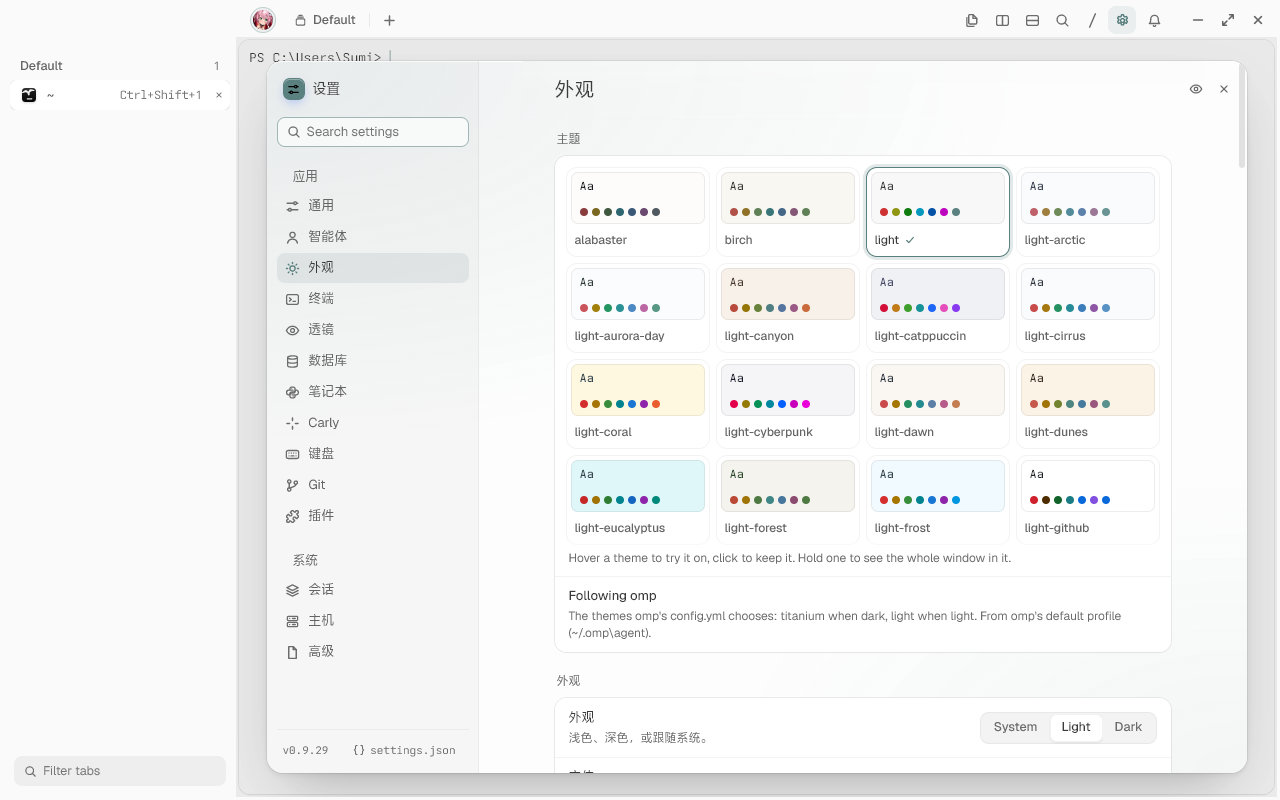
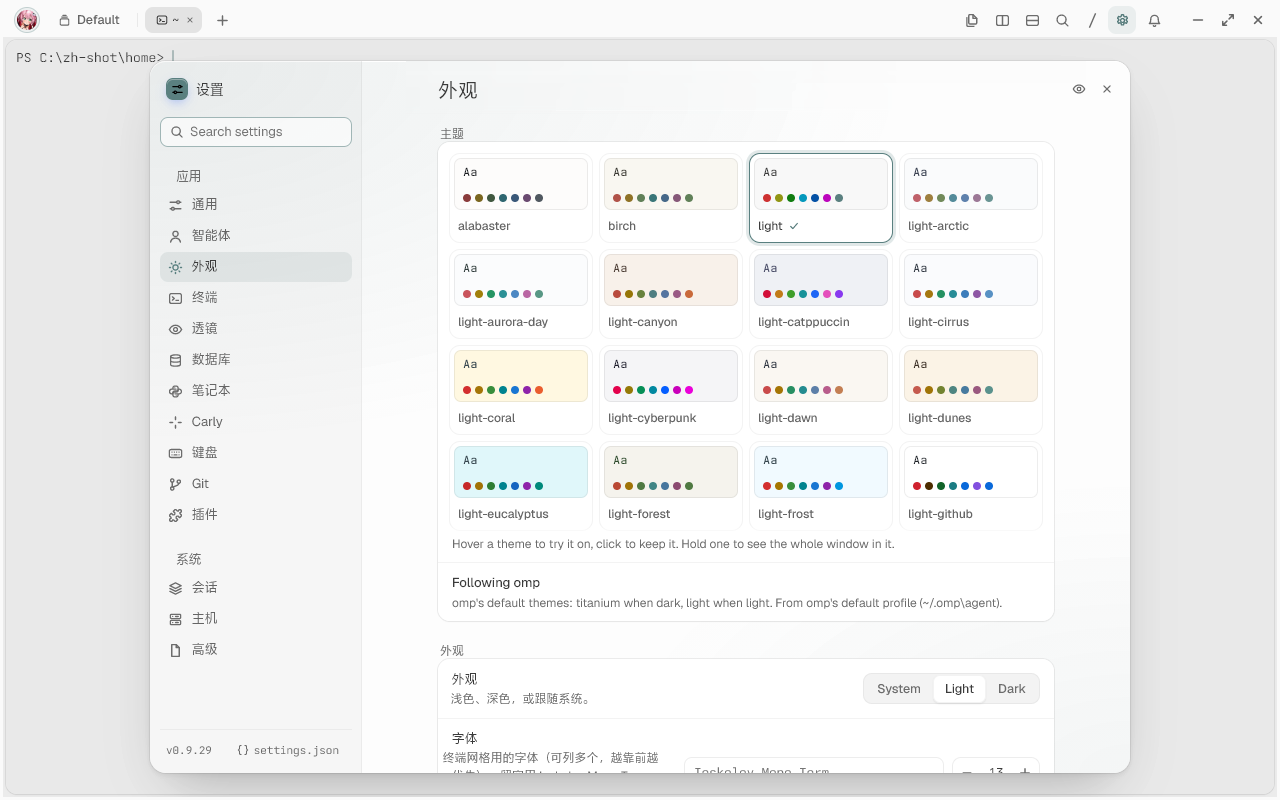
docs: 换成沙盒环境重拍的截图（不含本机用户名与工作区路径）

diff --git a/LOCALIZATION.md b/LOCALIZATION.md
@@ -17,7 +17,7 @@
 
 验证：独立窗口 `tern ctl css` 显示 `plugin:local:zh-cn:styles` 已加载 394 条规则；`tern ctl dump` 证明伪元素真的渲染了中文（宽度从英文宽度变成 2 字 25.92px / 3 字 38.88px）；命令面板里 240 条中文行全部可见。
 
-截图：`docs/localization-prefs.png`、`docs/localization-palette.png`、`docs/localization-files-empty.png`。
+截图：`docs/localization-prefs-appearance.png`、`docs/localization-prefs-keyboard.png`、`docs/localization-palette.png`、`docs/localization-menu-tab.png`、`docs/localization-files-empty.png`。
 
 ---
 

diff --git a/README.md b/README.md
@@ -7,9 +7,13 @@
 
 适用版本：**Tern 0.9.29**（Windows x64 / macOS 实测 DOM 一致）。插件版本 **0.7.0**。
 
-![设置面板中文导航](docs/localization-prefs-general.png)
+![设置面板中文导航](docs/localization-prefs-appearance.png)
 
 ![命令面板中文命令](docs/localization-palette.png)
+
+![键盘页中文条目](docs/localization-prefs-keyboard.png)
+
+![顶栏右键菜单中文](docs/localization-menu-tab.png)
 
 ---
 
